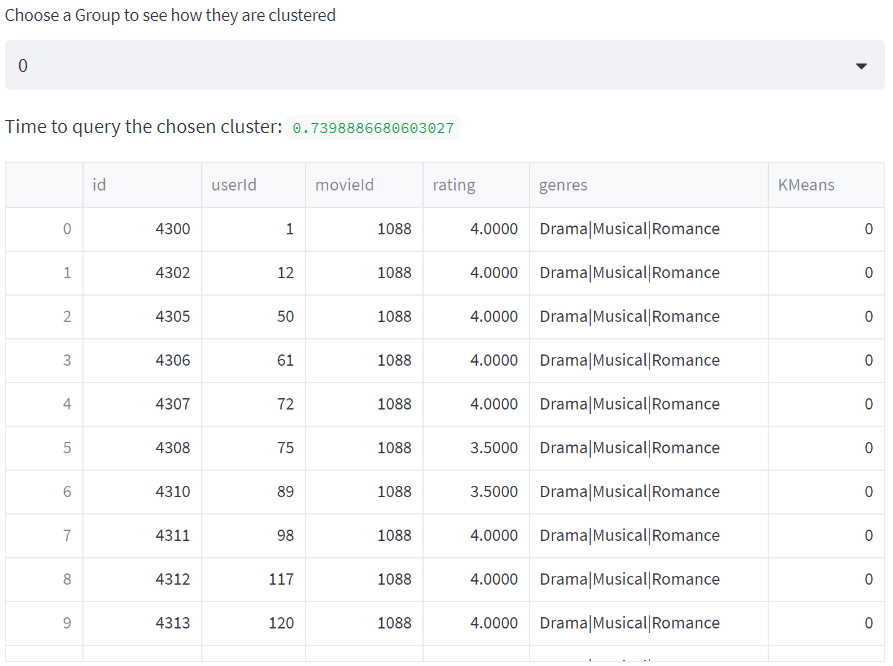
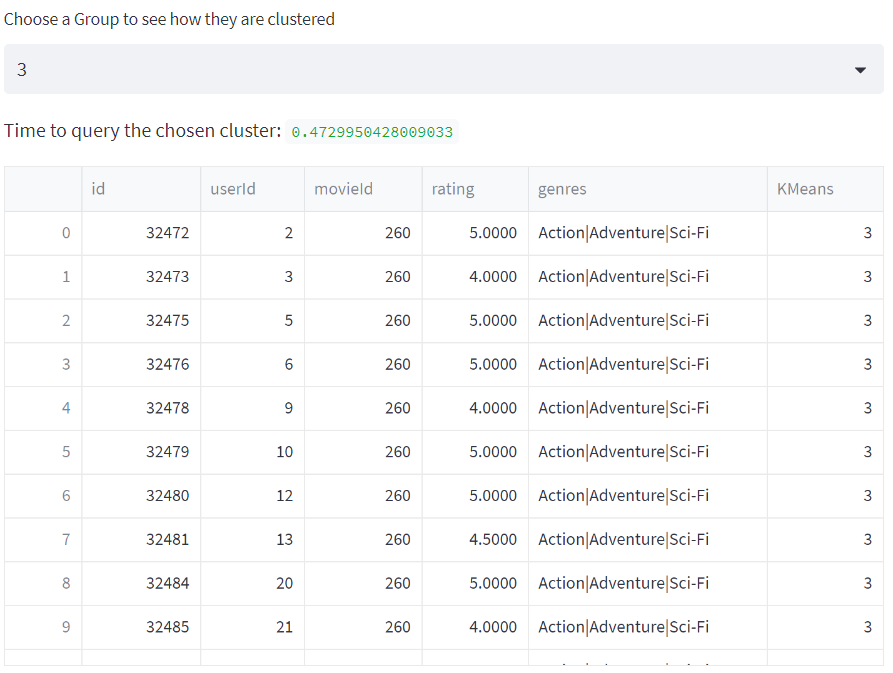
updated readme and images

diff --git a/readme.md b/readme.md
@@ -24,3 +24,26 @@ Run the application with the following command:
 streamlit run code\homepage.py
 ```
 
+## Task 1 - View Movies
+Type a page number in the input box and you can see the movies in that range:
+
+## Task 2 - Search Movie
+Search a movie by title:
+
+## Task 3 - Top 10 Movies by category
+Using Bayesian Estimation I have calculated a weighted rating for each movie. Using this rating, I show the top 10 movies by category.
+
+## Task 4 - Grouping Similar Users
+Using the KMeans clustering algorithm, I group similar users together by their interests in movie genres. The interest is represented by their ratings. There are 20 genres in total in the dataset. I created 20 clusters from the dataset assuming there will be at least 1 genre that a group will prefer. Sometimes, users in a cluster overwhelmingly dislike some genres. In this case, I will take movies from the least disliked genres and recommend movies from them.
+
+An example of users belonging to cluster 3:
+
+Graph showing their interest by genres:
+
+
+## Task 5 - Movie Recommendation
+Using the clusters formed in Task 4, I find out which genres do users in this group like or dislike.
+
+If users in a cluster have made at least 15 good ratings, I suggest other movies from the same cluster that the user has not previously seen. It is assumed that a good rating is atleast 4 stars. It is also assumed that an unwatched movie is an unrated movie.
+
+If users in a cluster made less than 15 good ratings, I find the 3 three least negatively reviewed genres and use them to suggest new movies to the user. In this case, the new movies will be suggested from the entire movies pool instead of just the cluster that the user belongs to.
